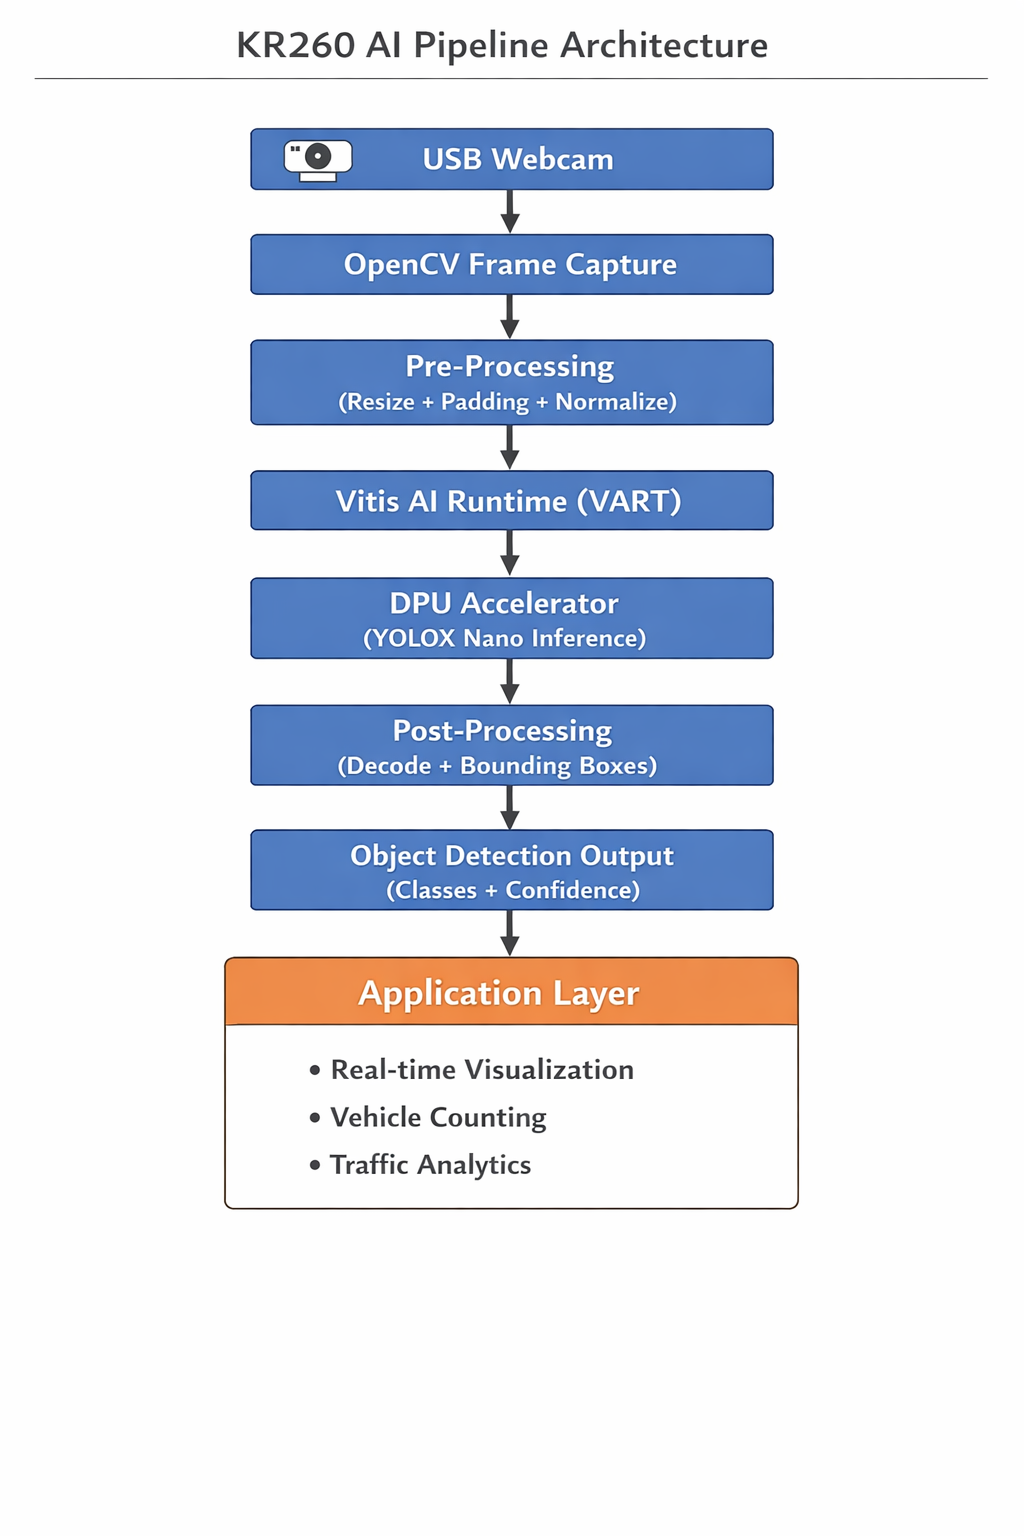
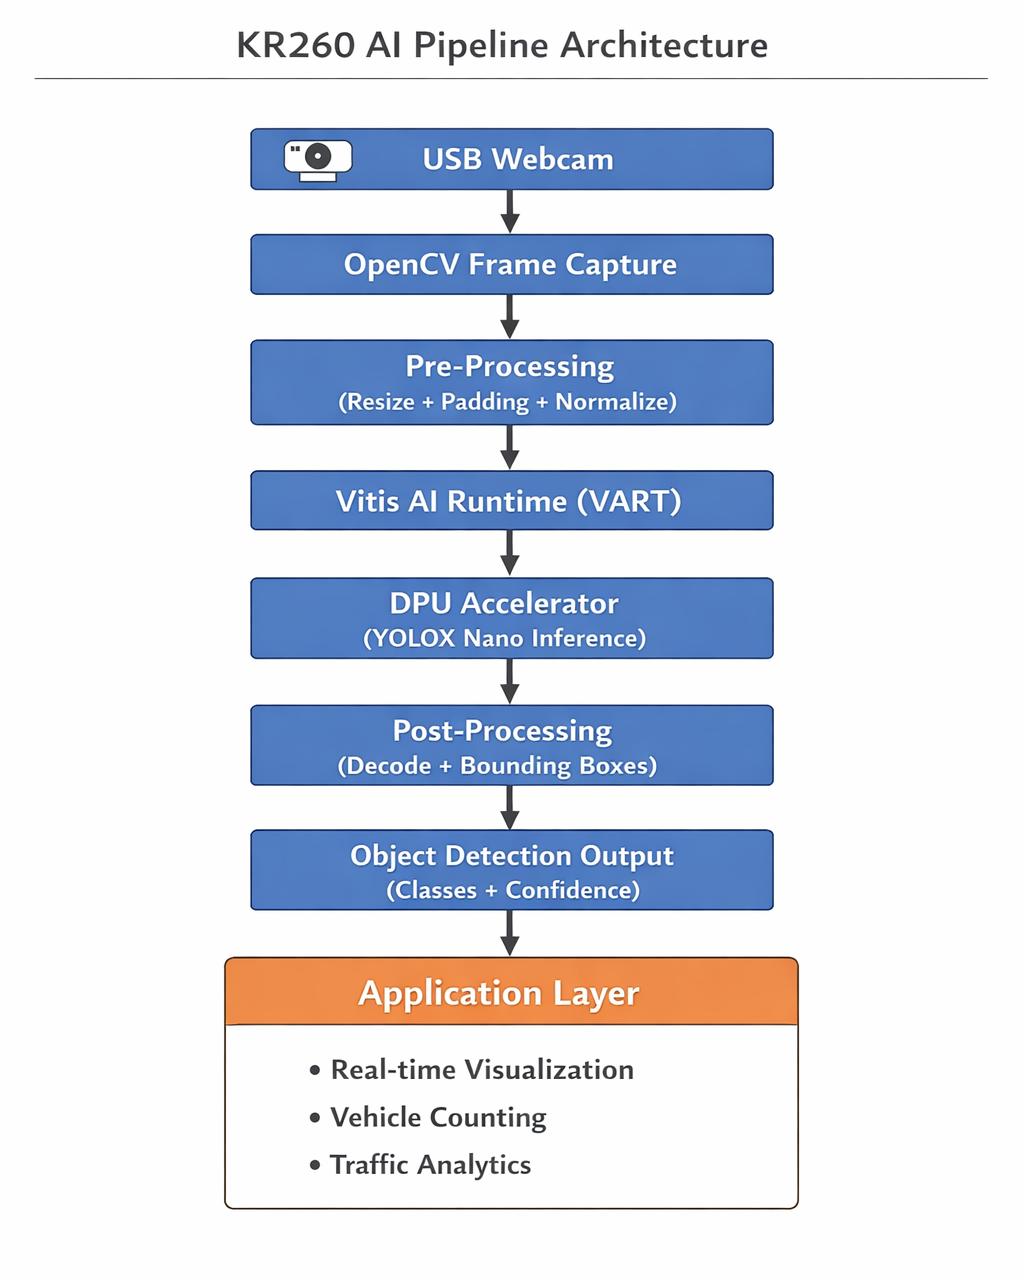
image-pipe

Changed region(s): [[0.2188, 0.0, 0.7812, 0.9368]]

diff --git a/object-detection-kr260/README.md b/object-detection-kr260/README.md
@@ -4,12 +4,10 @@ This project demonstrates **hardware-accelerated real-time object detection usin
 
 The system uses a **USB webcam as input** and performs object detection using the **YOLOX Nano model running on the DPU accelerator**.
 
-Pipeline overview:   USB Webcam --> OpenCV Frame Capture --> Pre-Processing (Resize + Padding + Normalize) --> Vitis AI Runtime (VART) --> DPU Accelerator (YOLOX Nano Inference) --> Post-Processing (Decode + Bounding Boxes) --> Object Detection Output --> (Classes + Confidence) --> Application Layer (Real-time Visualization, Vehicle Counting, Traffic Analytics)  
-
+Pipeline overview:   
 <p align="center">
 <img src="/assets/m2e-KR260-Project-pipeline.png" height="400">    
 </p>  
----
 
 # Hardware Requirements
 
